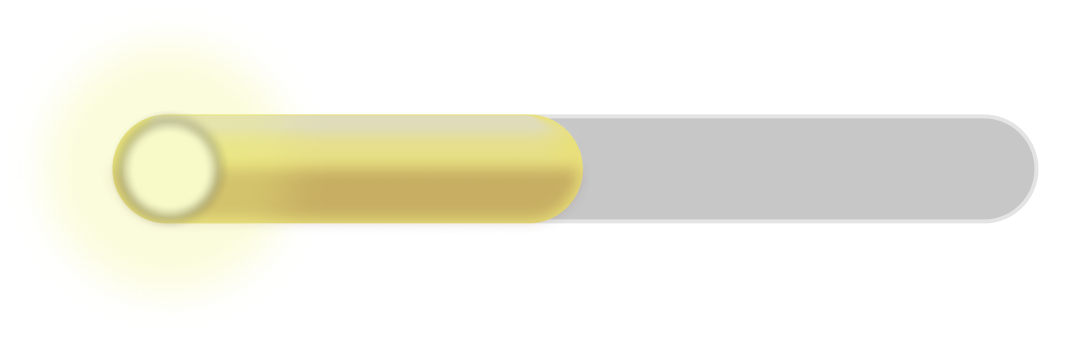
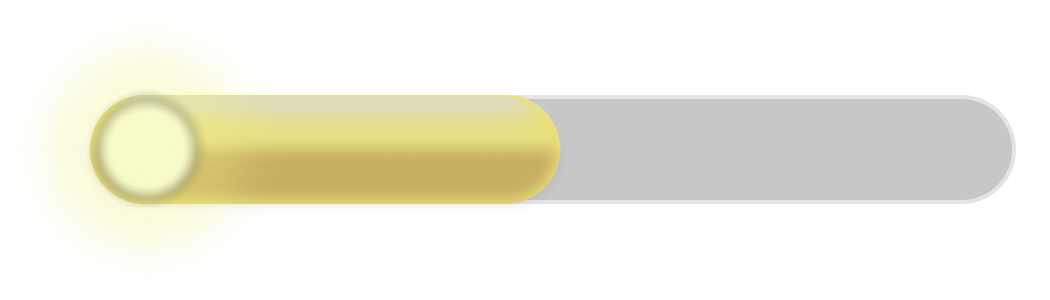
fix: statusbar firefly size

Changed region(s): [[0.061, 0.3, 0.9448, 0.69], [0.9448, 0.36, 0.9752, 0.42]]

diff --git a/javaScript/models/status-bar.class.js b/javaScript/models/status-bar.class.js
@@ -21,7 +21,7 @@ export class StatusBar extends DrawableObject {
      * @param {number} percentage_ - Initial percentage value of the status bar.
      */
     constructor(x_, y_, imgStatusbar_, percentage_){
-        super(x_, y_, 45, 170);
+        super(x_, y_, 45, 158);
         this.imgStatusbar = imgStatusbar_;
         this.percentage = percentage_;
         this.loadImages(imgStatusbar_);
